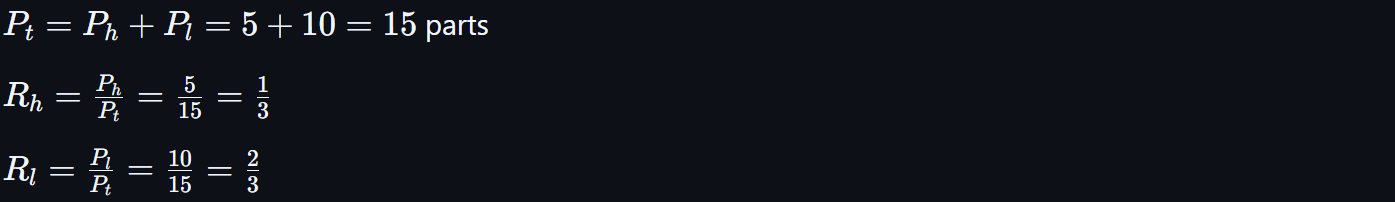
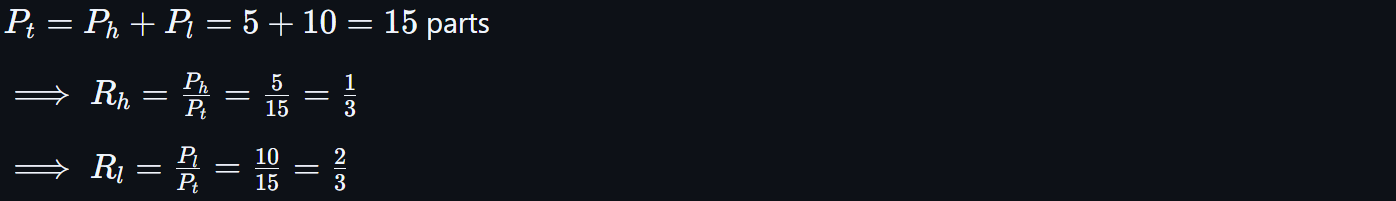
implies

diff --git a/math/alligations.md b/math/alligations.md
@@ -99,18 +99,18 @@ Step 2: **Calculate Ratios**
 <!-- ![tables](./img/alligations/e1_ratios.PNG) -->
 $P_t = P_h + P_l = 5 + 10 = 15$ parts
 
-$R_h = \frac{P_h}{P_t} = \frac{5}{15} = \frac{1}{3}$
+$\implies R_h = \frac{P_h}{P_t} = \frac{5}{15} = \frac{1}{3}$
 
-$R_l = \frac{P_l}{P_t} = \frac{10}{15} = \frac{2}{3}$
+$\implies R_l = \frac{P_l}{P_t} = \frac{10}{15} = \frac{2}{3}$
 
 Step 3: **Determine Volumes**
 
 <!-- ![tables](./img/alligations/e1_volumes.PNG) -->
 $V_t \text{ (given)} = 60\ \text{mL}$
 
-$V_h = R_h \times V_t = \frac{1}{3} \times 60 = \boxed{20\ \text{mL}}$
+$\implies V_h = R_h \times V_t = \frac{1}{3} \times 60 = \boxed{20\ \text{mL}}$
 
-$V_l = R_l \times V_t = \frac{2}{3} \times 60 = \boxed{40\ \text{mL}}$
+$\implies V_l = R_l \times V_t = \frac{2}{3} \times 60 = \boxed{40\ \text{mL}}$
 
 ✅ **Final Answer**: Mix 20 mL of 25% solution with 40 mL of 10% solution to make 60 mL of 15% solution
 
@@ -139,18 +139,18 @@ Step 2: **Calculate Ratios**
 <!-- ![tables](./img/alligations/e2_ratios.PNG) -->
 $P_t = P_h + P_l = 4 + 8 = 12$ parts
 
-$R_h = \frac{P_h}{P_t} = \frac{4}{12} = \frac{1}{3}$
+$\implies R_h = \frac{P_h}{P_t} = \frac{4}{12} = \frac{1}{3}$
 
-$R_l = \frac{P_l}{P_t} = \frac{8}{12} = \frac{2}{3}$
+$\implies R_l = \frac{P_l}{P_t} = \frac{8}{12} = \frac{2}{3}$
 
 Step 3: **Determine Masses**
 
 <!-- ![tables](./img/alligations/e2_masses.PNG) -->
 $M_t \text{ (given)} = 500\ \text{g}$
 
-$M_h = R_h \times M_t = \frac{1}{3} \times 500 = \boxed{166.67\ \text{g}}$
+$\implies M_h = R_h \times M_t = \frac{1}{3} \times 500 = \boxed{166.67\ \text{g}}$
 
-$M_l = R_l \times M_t = \frac{2}{3} \times 500 = \boxed{333.33\ \text{g}}$
+$\implies M_l = R_l \times M_t = \frac{2}{3} \times 500 = \boxed{333.33\ \text{g}}$
 
 ✅ **Final Answer**: Mix 166.67 g of 20% ointment with 333.33 g of 8% ointment to make 500 g of 12% ointment
 
@@ -186,9 +186,9 @@ Step 3: **Determine Volumes**
 <!-- ![tables](./img/alligations/e3_volumes.PNG) -->
 $V_t \text{ (given)} = 120\ \text{mL}$
 
-$\implies V_h = R_h \times V_t = 0.25 \times 120 = 30\ \text{mL}$
+$\implies V_h = R_h \times V_t = 0.25 \times 120 = \boxed{30\ \text{mL}}$
 
-$\implies V_l = R_l \times V_t = 0.75 \times 120 = 90\ \text{mL}$
+$\implies V_l = R_l \times V_t = 0.75 \times 120 = \boxed{90\ \text{mL}}$
 
 ✅ **Final Answer**: Mix 30 mL of 10% solution with 90 mL of sterile water to make 120 mL of 2.5% solution
 
